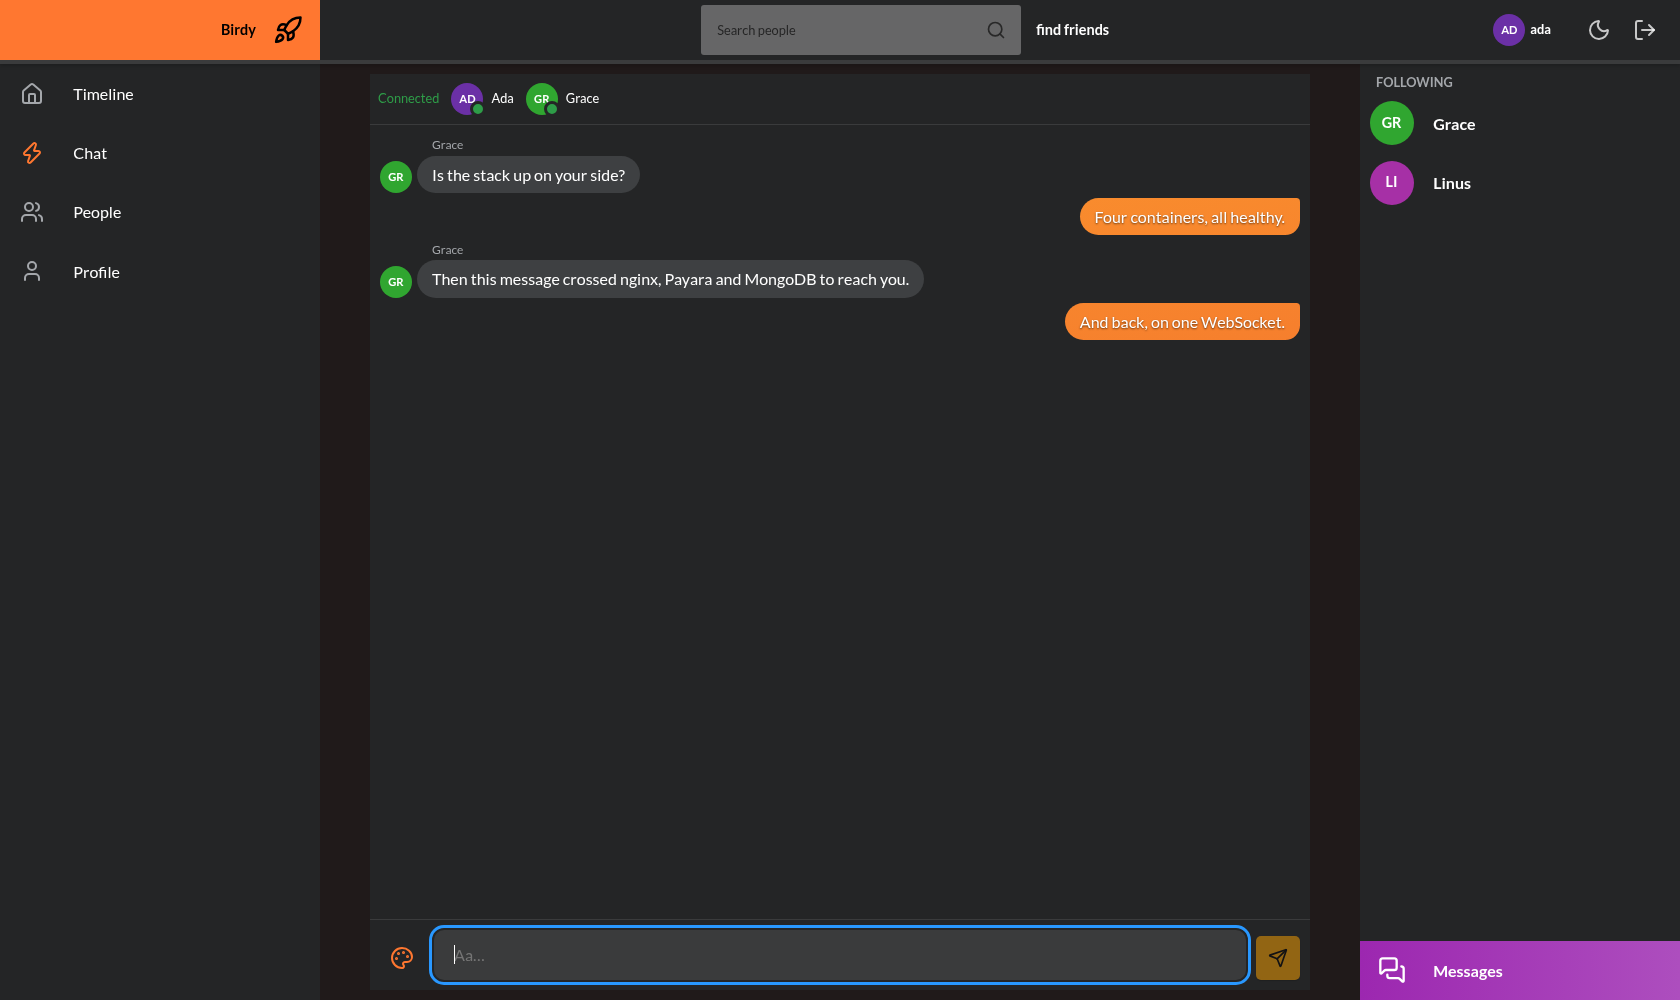
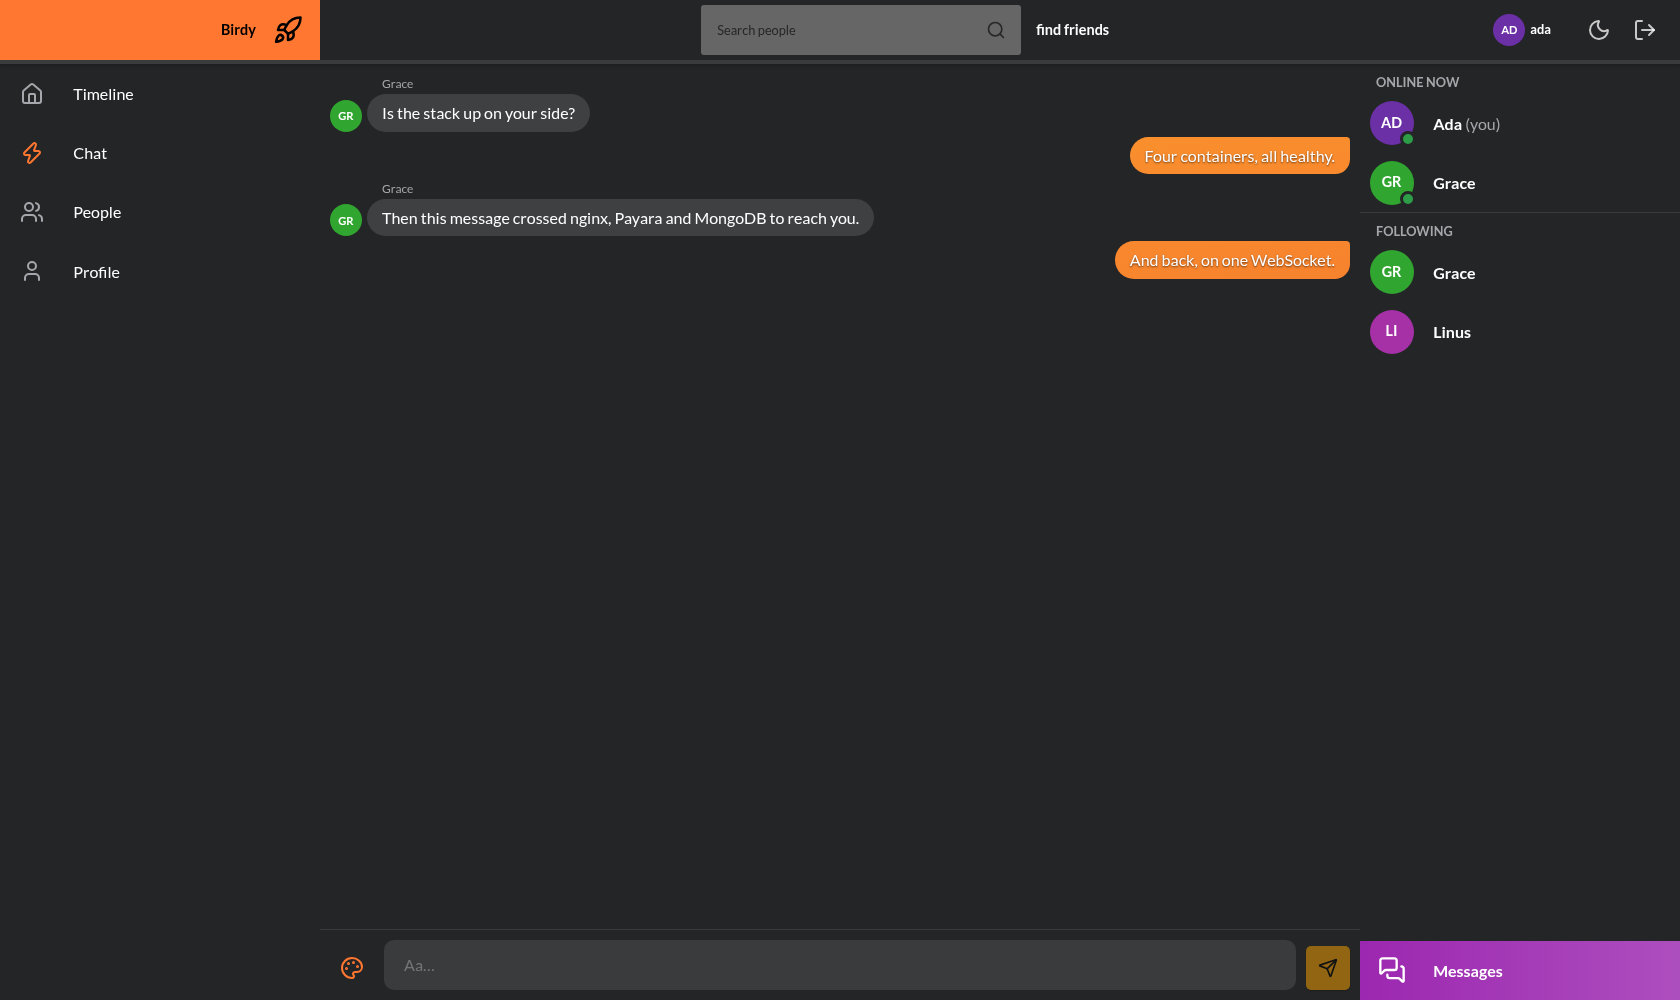
Chat fills the main column and lists who is online in the side panel; steady login form
The presence strip above the messages moves to the right-hand panel as an Online now list (kept above the messages on phones, where that panel is hidden). The connection status shows only while connecting or reconnecting. The Log in and Sign up buttons no longer fly in through the fields on load, and the form children no longer shrink.

diff --git a/frontend/src/features/chat/ChatPanel.test.tsx b/frontend/src/features/chat/ChatPanel.test.tsx
@@ -49,16 +49,55 @@ describe('chat panel', () => {
     expect(within(log).getByText('A live one')).toBeInTheDocument();
   });
 
-  it('lists who is online', async () => {
-    const { socket } = await openChat();
+  it('lists who is online in the side panel, and in the strip shown on phones', async () => {
+    const { socket, unmount } = await openChat();
+    const panel = screen.getByRole('complementary', { name: 'Following' });
+    expect(within(panel).queryByRole('list', { name: 'Online now' })).not.toBeInTheDocument();
 
     act(() => {
       socket.accept();
       socket.push({ type: 'presence', room: 'lobby', users: ['alice', 'bob'] });
     });
 
-    const online = screen.getByRole('list', { name: 'Online now' });
-    expect(within(online).getAllByRole('listitem').map((item) => item.textContent)).toEqual(['ALalice', 'BObob']);
+    const sideList = within(panel).getByRole('list', { name: 'Online now' });
+    expect(within(sideList).getAllByRole('listitem').map((item) => item.textContent)).toEqual([
+      'ALalice\u00a0(you)',
+      'BObob',
+    ]);
+    expect(within(sideList).getByRole('link', { name: /bob/ })).toHaveAttribute('href', '/u/bob');
+
+    const strip = within(screen.getByRole('region', { name: 'Chat room lobby' })).getByRole('list', {
+      name: 'Online now',
+    });
+    expect(within(strip).getAllByRole('listitem').map((item) => item.textContent)).toEqual(['ALalice', 'BObob']);
+    unmount();
+  });
+
+  it('removes the online list from the side panel when the chat is left', async () => {
+    const { socket, user } = await openChat();
+    act(() => {
+      socket.accept();
+      socket.push({ type: 'presence', room: 'lobby', users: ['alice', 'bob'] });
+    });
+    const panel = screen.getByRole('complementary', { name: 'Following' });
+    expect(within(panel).getByRole('list', { name: 'Online now' })).toBeInTheDocument();
+
+    await user.click(screen.getByRole('link', { name: 'Timeline' }));
+
+    await waitFor(() => {
+      expect(within(panel).queryByRole('list', { name: 'Online now' })).not.toBeInTheDocument();
+    });
+  });
+
+  it('shows a connection banner only while the socket is not open', async () => {
+    const { socket } = await openChat();
+    expect(screen.getByRole('status')).not.toHaveClass('chat__status--open');
+
+    act(() => {
+      socket.accept();
+    });
+
+    expect(screen.getByRole('status')).toHaveClass('chat__status--open');
   });
 
   it('sends the message with Enter once connected, and clears the box', async () => {

diff --git a/frontend/src/features/chat/ChatPanel.tsx b/frontend/src/features/chat/ChatPanel.tsx
@@ -6,6 +6,7 @@ import { Avatar } from '../../components/Avatar';
 import { cx } from '../../lib/cx';
 import { formatDateTime } from '../../lib/time';
 import { CHAT_COLOR_COUNT, ColorPicker, DEFAULT_CHAT_COLOR } from './ColorPicker';
+import { useSetChatPresence } from './chatPresence';
 import { useChat, type ChatStatus } from './useChat';
 
 export const CHAT_COLOR_STORAGE_KEY = 'birdy.chatColor';
@@ -22,7 +23,10 @@ function readStoredColor(): number {
   return Number.isInteger(stored) && stored >= 1 && stored <= CHAT_COLOR_COUNT ? stored : DEFAULT_CHAT_COLOR;
 }
 
-/** Group chat of one room: who is online, the messages, and the box to write one. */
+/**
+ * Group chat of one room: the messages and the box to write one. Who is online goes to the side panel;
+ * on screens too narrow for that panel it is listed above the messages instead.
+ */
 export function ChatPanel({ room }: { room: string }) {
   const me = useCurrentUser();
   const chat = useChat(room);
@@ -34,6 +38,18 @@ export function ChatPanel({ room }: { room: string }) {
     setPickerOpen(false);
   }, []);
   const messagesRef = useRef<HTMLDivElement>(null);
+  const setPresence = useSetChatPresence();
+
+  // The side panel lists who is online; clear it when the room closes.
+  useEffect(() => {
+    setPresence(chat.status === 'open' ? chat.users : null);
+  }, [setPresence, chat.status, chat.users]);
+  useEffect(
+    () => () => {
+      setPresence(null);
+    },
+    [setPresence],
+  );
 
   // Keep the newest message in view.
   useEffect(() => {
@@ -65,10 +81,10 @@ export function ChatPanel({ room }: { room: string }) {
 
   return (
     <section className={cx('chat', `chat--color-${color}`)} aria-label={`Chat room ${room}`}>
+      <p className={cx('chat__status', chat.status === 'open' && 'chat__status--open')} role="status">
+        {STATUS_LABEL[chat.status]}
+      </p>
       <div className="chat__presence">
-        <p className={cx('chat__status', chat.status === 'open' && 'chat__status--open')} role="status">
-          {STATUS_LABEL[chat.status]}
-        </p>
         <ul className="chat__users" aria-label="Online now">
           {chat.users.map((username) => (
             <li key={username} className="chat__user">

diff --git a/frontend/src/features/people/FollowingPanel.tsx b/frontend/src/features/people/FollowingPanel.tsx
@@ -2,16 +2,41 @@ import { MessagesSquare } from 'lucide-react';
 import { Link } from 'react-router';
 import { useCurrentUser } from '../../auth/AuthContext';
 import { Avatar } from '../../components/Avatar';
+import { useChatPresence } from '../chat/chatPresence';
 import { useFollowing } from './peopleQueries';
 
-/** Right-hand panel: the accounts the user follows and a shortcut to the chat. */
+/** Right-hand panel: who is online while the chat is open, the accounts the user follows, a shortcut to the chat. */
 export function FollowingPanel() {
   const user = useCurrentUser();
   const following = useFollowing(user.username);
   const people = following.data?.filter((person) => person.followedByMe) ?? [];
+  const online = useChatPresence();
 
   return (
     <aside className="nav nav--right" aria-labelledby="following-panel-title">
+      {online !== null && (
+        <section className="nav__section" aria-labelledby="online-panel-title">
+          <h2 id="online-panel-title" className="nav__desc">
+            Online now
+          </h2>
+          <ul className="nav__elements nav__elements--online" aria-labelledby="online-panel-title">
+            {online.map((username) => (
+              <li key={username}>
+                <Link to={`/u/${encodeURIComponent(username)}`} className="nav__element">
+                  <span className="nav__element-icon">
+                    <Avatar username={username} />
+                    <span className="nav__status nav__status--online" />
+                  </span>
+                  <span className="nav__element-label nav__element-label--strong">
+                    {username}
+                    {username === user.username && <span className="nav__element-note">&nbsp;(you)</span>}
+                  </span>
+                </Link>
+              </li>
+            ))}
+          </ul>
+        </section>
+      )}
       <h2 id="following-panel-title" className="nav__desc">
         Following
       </h2>

diff --git a/frontend/src/components/AppLayout.tsx b/frontend/src/components/AppLayout.tsx
@@ -1,13 +1,15 @@
 import { useCallback, useEffect, useId, useState } from 'react';
 import { Outlet } from 'react-router';
+import { ChatPresenceContext, SetChatPresenceContext, type ChatPresence } from '../features/chat/chatPresence';
 import { FollowingPanel } from '../features/people/FollowingPanel';
 import { Header } from './Header';
 import { Navigation } from './Navigation';
 
-/** Frame of every signed-in page: header, left navigation, routed content, followed-accounts panel. */
+/** Frame of every signed-in page: header, left navigation, routed content, followed-accounts panel (with who is online while the chat is open). */
 export function AppLayout() {
   const navigationId = useId();
   const [navigationOpen, setNavigationOpen] = useState(false);
+  const [chatPresence, setChatPresence] = useState<ChatPresence>(null);
   const closeNavigation = useCallback(() => {
     setNavigationOpen(false);
   }, []);
@@ -32,13 +34,17 @@ export function AppLayout() {
           setNavigationOpen((open) => !open);
         }}
       />
-      <div className="app__body">
-        <Navigation id={navigationId} open={navigationOpen} onClose={closeNavigation} />
-        <main className="app__main">
-          <Outlet />
-        </main>
-        <FollowingPanel />
-      </div>
+      <SetChatPresenceContext value={setChatPresence}>
+        <ChatPresenceContext value={chatPresence}>
+          <div className="app__body">
+            <Navigation id={navigationId} open={navigationOpen} onClose={closeNavigation} />
+            <main className="app__main">
+              <Outlet />
+            </main>
+            <FollowingPanel />
+          </div>
+        </ChatPresenceContext>
+      </SetChatPresenceContext>
     </div>
   );
 }

diff --git a/frontend/src/styles/components/_chat.scss b/frontend/src/styles/components/_chat.scss
@@ -16,14 +16,24 @@
     padding: 1rem;
     border-bottom: 1px solid var(--color-surface-raised);
     font-size: 1.6rem;
+
+    // The side panel shows who is online on wide screens; the strip is for phones only.
+    @include from($breakpoint-small) {
+      display: none;
+    }
   }
 
   &__status {
     flex: none;
+    padding: 0.6rem 1rem;
+    background-color: var(--color-surface-raised);
     color: var(--color-text-muted);
+    font-size: 1.5rem;
+    text-align: center;
 
+    // Only a lost or pending connection is worth a banner.
     &--open {
-      color: $color-online;
+      @include visually-hidden;
     }
   }
 
@@ -198,6 +208,10 @@
 
 .chat-page {
   height: 100%;
-  max-width: 940px;
-  margin: 0 auto;
+}
+
+// The chat takes the whole main column, edge to edge.
+.app__main:has(> .chat-page) {
+  padding: 0;
+  overflow: hidden;
 }

diff --git a/frontend/src/features/chat/chatPresence.ts b/frontend/src/features/chat/chatPresence.ts
@@ -1,0 +1,17 @@
+import { createContext, useContext } from 'react';
+
+/** Usernames online in the open chat room, or null when no chat is on screen. */
+export type ChatPresence = string[] | null;
+
+export const ChatPresenceContext = createContext<ChatPresence>(null);
+export const SetChatPresenceContext = createContext<(users: ChatPresence) => void>(() => undefined);
+
+/** Who is online in the chat room currently on screen, for the side panel. */
+export function useChatPresence(): ChatPresence {
+  return useContext(ChatPresenceContext);
+}
+
+/** Lets the chat room publish its presence list to the layout. */
+export function useSetChatPresence(): (users: ChatPresence) => void {
+  return useContext(SetChatPresenceContext);
+}

diff --git a/frontend/src/styles/pages/_login.scss b/frontend/src/styles/pages/_login.scss
@@ -120,10 +120,11 @@ $login-breakpoint: 1050px;
 
     &::after {
       position: absolute;
-      bottom: 0;
+      bottom: -0.6rem;
       left: 50%;
-      width: 15%;
-      border-bottom: 8px solid;
+      width: 40%;
+      border-bottom: 6px solid;
+      border-radius: 3px;
       content: "";
       transform: translateX(-50%);
     }
@@ -178,6 +179,11 @@ $login-breakpoint: 1050px;
   max-width: 80rem;
   color: $color-black;
   text-align: center;
+
+  // Fixed-height fields must not shrink, or each one slides under the next.
+  > * {
+    flex-shrink: 0;
+  }
 
   &__title {
     margin-bottom: 2rem;

diff --git a/frontend/src/styles/components/_nav.scss b/frontend/src/styles/components/_nav.scss
@@ -95,6 +95,18 @@
     overflow: hidden auto;
   }
 
+  &__section {
+    display: flex;
+    flex: none;
+    flex-direction: column;
+    max-height: 50%;
+    border-bottom: 1px solid var(--color-surface-raised);
+  }
+
+  &__elements--online {
+    flex: 0 1 auto;
+  }
+
   &__element {
     display: flex;
     align-items: center;
@@ -149,6 +161,12 @@
       color: $color-white;
       font-weight: 700;
     }
+  }
+
+  &__element-note {
+    color: var(--color-text-muted);
+    font-weight: 400;
+    text-transform: none;
   }
 
   &__status {

diff --git a/frontend/src/auth/SignupForm.tsx b/frontend/src/auth/SignupForm.tsx
@@ -76,7 +76,7 @@ export function SignupForm() {
         defaultValue={state.values.birthday}
         error={state.fields.birthday}
       />
-      <button type="submit" className="login-form__button btn btn--white btn--animated" disabled={pending}>
+      <button type="submit" className="login-form__button btn btn--white" disabled={pending}>
         {pending ? 'Creating your account…' : 'Sign up'}
       </button>
       <p className="login-form__links">

diff --git a/frontend/src/auth/LoginForm.tsx b/frontend/src/auth/LoginForm.tsx
@@ -47,7 +47,7 @@ export function LoginForm() {
         required
         error={state.fields.password}
       />
-      <button type="submit" className="login-form__button btn btn--white btn--animated" disabled={pending}>
+      <button type="submit" className="login-form__button btn btn--white" disabled={pending}>
         {pending ? 'Logging in…' : 'Log in'}
       </button>
       <p className="login-form__links">

diff --git a/frontend/src/styles/base/_animation.scss b/frontend/src/styles/base/_animation.scss
@@ -1,19 +1,3 @@
-@keyframes move-in-bottom {
-  0% {
-    opacity: 0;
-    transform: translateY(10rem);
-  }
-
-  80% {
-    transform: translateY(-2rem);
-  }
-
-  100% {
-    opacity: 1;
-    transform: translateY(0);
-  }
-}
-
 @keyframes spin {
   to {
     transform: rotate(360deg);

diff --git a/frontend/src/styles/components/_button.scss b/frontend/src/styles/components/_button.scss
@@ -58,10 +58,6 @@
 
     @include focus-ring($color-secondary-dark);
   }
-
-  &--animated {
-    animation: move-in-bottom 0.5s ease-in-out 0.2s backwards;
-  }
 }
 
 .btn-text {
